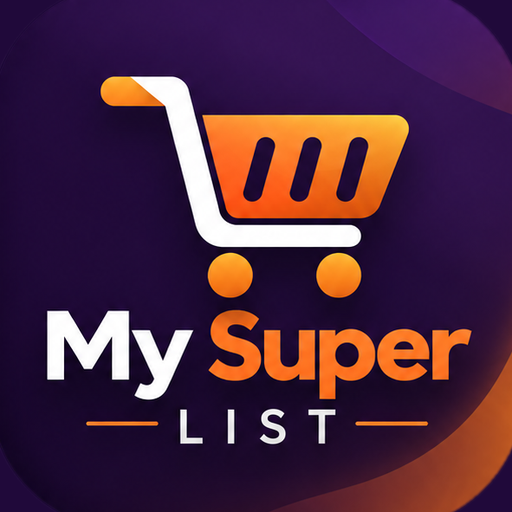
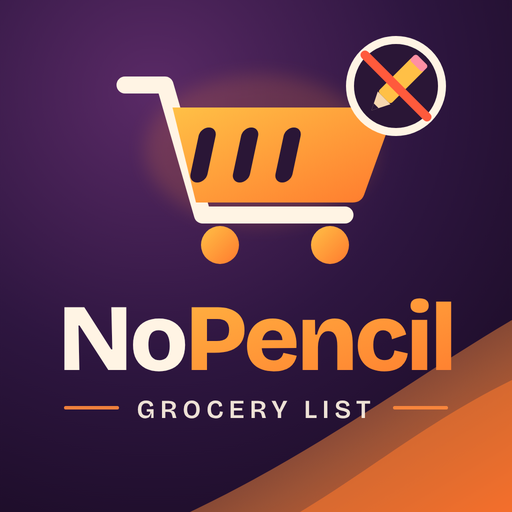
Add files via upload

diff --git a/index.html b/index.html
@@ -8,8 +8,8 @@
 <meta name="apple-mobile-web-app-capable" content="yes">
 <meta name="mobile-web-app-capable" content="yes">
 <meta name="apple-mobile-web-app-status-bar-style" content="black-translucent">
-<meta name="apple-mobile-web-app-title" content="My Super List">
-<title>My Super List</title>
+<meta name="apple-mobile-web-app-title" content="NoPencil">
+<title>NoPencil</title>
 <link rel="manifest" href="manifest.webmanifest">
 <link rel="icon" type="image/png" sizes="32x32" href="icons/favicon-32.png">
 <link rel="icon" type="image/png" sizes="64x64" href="icons/favicon-64.png">
@@ -22,7 +22,7 @@
 <div class="band">
   <div class="band-in">
     <div class="top">
-      <div class="brand"><img class="brand-logo" src="icons/logo-mark.png" alt="My Super List" width="44" height="44"><div class="brand-txt"><small id="greet">Hola</small><b>Tu súper de hoy</b></div></div>
+      <div class="brand"><img class="brand-logo" src="icons/logo-mark.png" alt="NoPencil" width="44" height="44"><div class="brand-txt"><small id="greet">Hola</small><b>Tu súper de hoy</b></div></div>
       <div class="top-right">
         <button id="freezerBtn" class="fz-pill" type="button" aria-label="Abrir Freezer Scan">❄ Freezer<span id="fzBadge" class="fz-badge hidden"></span></button>
         <button id="installBtn" class="install hidden" type="button">Instalar</button>
@@ -82,7 +82,7 @@
 
   <button class="pc-link plus-card hidden" id="plusCard" type="button">
     <span class="pc-link-ico" id="plusCardIco" aria-hidden="true">⭐</span>
-    <span class="pc-link-txt"><b id="plusCardTitle">Mi Lista Plus</b><small id="plusSub"></small></span>
+    <span class="pc-link-txt"><b id="plusCardTitle">NoPencil Plus</b><small id="plusSub"></small></span>
     <svg width="18" height="18" viewBox="0 0 24 24" fill="none" stroke="currentColor" stroke-width="2.4" stroke-linecap="round" stroke-linejoin="round" aria-hidden="true"><path d="M9 6l6 6-6 6"/></svg>
   </button>
 
@@ -210,7 +210,7 @@
 <!-- Mi Lista Plus -->
 <div id="plusSheet" class="sheet-wrap hidden" role="dialog" aria-modal="true" aria-labelledby="plusTitle">
   <div class="sheet plus-sheet">
-    <h2 id="plusTitle">Mi Lista Plus</h2>
+    <h2 id="plusTitle">NoPencil Plus</h2>
     <div id="plusBody"></div>
   </div>
 </div>
@@ -219,8 +219,8 @@
 <!-- Registro / inicio de sesión -->
 <section id="authScreen" class="auth hidden" role="dialog" aria-modal="true" aria-labelledby="authTitle">
   <div class="auth-band">
-    <img class="auth-logo-img" src="icons/logo.png" alt="My Super List" width="132" height="132">
-    <small>Mi lista del súper</small>
+    <img class="auth-logo-img" src="icons/logo.png" alt="NoPencil" width="132" height="132">
+    <small>Tu lista del súper, sin papel</small>
   </div>
   <div class="promo hidden" id="authPromo" aria-live="polite">
     <div class="promo-top"><span class="promo-tag">🎉 Promoción de lanzamiento</span></div>
@@ -448,7 +448,7 @@
     <div class="pc-head"><h2>Compras del mes</h2><span id="pcCount" class="fz-count"></span></div>
     <p class="pc-day-empty pc-month-empty" id="pcMonthEmpty">Toca un día del calendario para registrar tu primera compra.</p>
     <ul class="pc-records pc-month-list" id="pcMonthList"></ul>
-    <p class="pc-version">Versión 2.1.1</p>
+    <p class="pc-version">Versión 2.2.0</p>
   </div>
 </section>
 

diff --git a/js/i18n.js b/js/i18n.js
@@ -13,7 +13,7 @@
 
   const D = {
     // ----- Encabezado y Mi lista -----
-    "Mi lista del súper": "My grocery list", "Tu súper de hoy": "Today's list", "Hola": "Hi",
+    "Mi lista del súper": "My grocery list", "Tu lista del súper, sin papel": "Your grocery list, no paper", "Tu súper de hoy": "Today's list", "Hola": "Hi",
     "Buenos días": "Good morning", "Buenas tardes": "Good afternoon", "Buenas noches": "Good evening",
     "❄ Freezer": "❄ Freezer", "Abrir Freezer Scan": "Open Freezer Scan", "Instalar": "Install",
     "Escanear producto": "Scan product", "Escanear producto con la cámara": "Scan a product with the camera",
@@ -169,11 +169,11 @@
     "Para agregar a alguien más, compártele tu lista. Al unirse, entra gratis.": "To add someone else, share your list with them. When they join, they get in free.",
     "Salir de la familia": "Leave the family", "Ese código no es de un plan familiar.": "That code isn't from a family plan.", "Agregar foto": "Add photo", "Guardando foto…": "Saving photo…", "Quitando foto…": "Removing photo…",
     "Foto guardada": "Photo saved", "Foto quitada": "Photo removed", "Necesitas internet para guardar la foto.": "You need internet to save the photo.",
-    "No se pudo guardar la foto. Revisa tu conexión.": "Couldn't save the photo. Check your connection.", "La foto es demasiado grande": "The photo is too large", "Foto inválida": "Invalid photo", "Mi Lista Plus": "My List Plus", "Mi Lista Plus ⭐": "My List Plus ⭐", "Cerrar sesión": "Log out",
+    "No se pudo guardar la foto. Revisa tu conexión.": "Couldn't save the photo. Check your connection.", "La foto es demasiado grande": "The photo is too large", "Foto inválida": "Invalid photo", "NoPencil Plus": "NoPencil Plus", "NoPencil Plus ⭐": "NoPencil Plus ⭐", "Cerrar sesión": "Log out",
     "Plus gratis (de las primeras)": "Free Plus (early member)", "Prueba gratis activa": "Free trial active", "Plus activo": "Plus active", "Sin suscripción": "No subscription",
     "Desbloquea Plus": "Unlock Plus", "Un momento…": "One moment…", "¡Ya tienes Plus! ⭐": "You've got Plus! ⭐",
     "Gracias por tu suscripción. Ya puedes usar todas las funciones.": "Thanks for subscribing. You can now use every feature.",
-    "Guarda este código. Si tienes la app instalada o cambias de teléfono, toca Mi Lista Plus → escribe tu código.": "Save this code. If you have the app installed or change phones, tap My List Plus → type your code.",
+    "Guarda este código. Si tienes la app instalada o cambias de teléfono, toca NoPencil Plus → escribe tu código.": "Save this code. If you have the app installed or change phones, tap NoPencil Plus → type your code.",
     "Administrar suscripción": "Manage subscription", "Ver planes de Plus": "See Plus plans", "Para seguir usando la app, suscríbete a Plus.": "To keep using the app, subscribe to Plus.",
     "Desbloquea todo lo que hace más fácil tu súper.": "Unlock everything that makes grocery shopping easier.", "Plan anual": "Yearly plan", "Plan mensual": "Monthly plan",
     "Los planes todavía no están disponibles.": "Plans aren't available yet.", "Se renueva automáticamente y puedes cancelar cuando quieras.": "Renews automatically and you can cancel anytime.",

diff --git a/js/plus.js b/js/plus.js
@@ -182,7 +182,7 @@
     }
     if (!enabled()) { card.classList.add("hidden"); return; }
     card.classList.remove("hidden");
-    $("plusCardTitle").textContent = "Mi Lista Plus"; $("plusCardIco").classList.remove("has-photo"); $("plusCardIco").textContent = "⭐";
+    $("plusCardTitle").textContent = "NoPencil Plus"; $("plusCardIco").classList.remove("has-photo"); $("plusCardIco").textContent = "⭐";
     $("plusSub").textContent = isPlus() ? planText() : "Desbloquea " + feats.map(f => FEATURES[f].name).join(", ").replace(/, ([^,]*)$/, " y $1");
     card.classList.toggle("on", isPlus());
   }
@@ -194,13 +194,13 @@
     sheet.dataset.blocking = blocking ? "1" : "";
     const A = ACC(), u = A && A.user();
     if (mode === "working") {
-      title.textContent = ACC() ? "Mi cuenta" : "Mi Lista Plus";
+      title.textContent = ACC() ? "Mi cuenta" : "NoPencil Plus";
       box.append(el("p", "plus-working", workingText || "Un momento…"));
     } else if (mode === "welcome") {
       title.textContent = "¡Ya tienes Plus! ⭐";
       box.append(el("p", "plus-lead", "Gracias por tu suscripción. Ya puedes usar todas las funciones."));
       if (A) box.append(el("p", "plus-note", "Tu suscripción quedó unida a tu cuenta (" + (u ? u.email : "") + "). Entra con tu correo en cualquier teléfono y la tendrás activa."));
-      else { box.append(codeBox()); box.append(el("p", "plus-note", "Guarda este código. Si tienes la app instalada o cambias de teléfono, toca Mi Lista Plus → escribe tu código.")); }
+      else { box.append(codeBox()); box.append(el("p", "plus-note", "Guarda este código. Si tienes la app instalada o cambias de teléfono, toca NoPencil Plus → escribe tu código.")); }
       box.append(btn("Empezar", "sh-primary", () => closeSheet(true)));
     } else if (mode === "account") {
       title.textContent = "Mi cuenta";
@@ -243,7 +243,7 @@
       if (A) box.append(btn("Cerrar sesión", "sh-danger", () => { closeSheet(true); A.logout(); }));
       box.append(btn("Cerrar", "sh-ghost", () => closeSheet()));
     } else { // paywall
-      title.textContent = "Mi Lista Plus ⭐";
+      title.textContent = "NoPencil Plus ⭐";
       box.append(el("p", "plus-lead", whole
         ? "Para seguir usando la app, suscríbete a Plus."
         : feature ? FEATURES[feature].name + " es parte de Plus." : "Desbloquea todo lo que hace más fácil tu súper."));

diff --git a/admin.html b/admin.html
@@ -4,12 +4,12 @@
 <meta charset="utf-8">
 <meta name="viewport" content="width=device-width, initial-scale=1, viewport-fit=cover">
 <meta name="robots" content="noindex, nofollow">
-<title>Panel · My Super List</title>
+<title>Panel · NoPencil</title>
 <link rel="icon" type="image/png" href="icons/favicon-32.png">
 <link rel="manifest" href="admin.webmanifest">
 <link rel="apple-touch-icon" href="icons/apple-touch-icon.png">
 <meta name="apple-mobile-web-app-capable" content="yes">
-<meta name="apple-mobile-web-app-title" content="Super List Panel">
+<meta name="apple-mobile-web-app-title" content="NoPencil Panel">
 <meta name="theme-color" content="#2A1636">
 <link rel="stylesheet" href="css/styles.css">
 <style>
@@ -50,7 +50,7 @@
 </style>
 </head>
 <body>
-<header class="ad-band"><img src="icons/logo-mark.png" alt="" width="44" height="44" style="float:right;border-radius:13px"><small>My Super List</small><h1>Panel de cuentas</h1></header>
+<header class="ad-band"><img src="icons/logo-mark.png" alt="" width="44" height="44" style="float:right;border-radius:13px"><small>NoPencil</small><h1>Panel de cuentas</h1></header>
 <main class="ad-main">
   <form class="ad-card" id="login">
     <p style="margin:0 0 10px;color:var(--muted)">Escribe la contraseña de administración (la variable <b>ADMIN_PASSWORD</b> que pusiste en Netlify).</p>
@@ -129,7 +129,7 @@
     help("");
     if (!("serviceWorker" in navigator) || !("PushManager" in window) || !("Notification" in window)) {
       help(isIOS && !standalone
-        ? "En iPhone primero agrega este panel a tu pantalla de inicio: toca Compartir → Agregar a inicio. Ábrelo desde ese ícono nuevo (Mi Lista Panel), entra con tu contraseña y toca Activar."
+        ? "En iPhone primero agrega este panel a tu pantalla de inicio: toca Compartir → Agregar a inicio. Ábrelo desde ese ícono nuevo (NoPencil Panel), entra con tu contraseña y toca Activar."
         : "Este navegador no permite avisos. Prueba con Chrome o Safari actualizados.");
       return;
     }

diff --git a/js/plus-config.js b/js/plus-config.js
@@ -9,14 +9,14 @@
    La clave secreta de Stripe va SOLO en Netlify (STRIPE_SECRET_KEY). */
 window.PLUS_CONFIG = {
   authRequired: true,
-  enabled: false,
+  enabled: true,
   // Qué se paga: "todo" (toda la app) o funciones sueltas: "freezer", "compras", "compartida"
   features: ["todo"],
-  monthly: { link: "", price: "$5.99 al mes", label: "Plan individual" },
+  monthly: { link: "https://buy.stripe.com/28EfZjboH9J30e5eFv4wM02", price: "$5.99 al mes", label: "Plan individual" },
   // Plan familiar: quien lo paga comparte su lista y cada persona que se une entra gratis
   // (hasta 5 personas más, o lo que pongas en FAMILY_MEMBERS en Netlify).
   // En Stripe, al precio familiar ponle metadata: plan = family.
-  family:  { link: "", price: "", label: "Plan familiar", note: "Para toda la casa" },
+  family:  { link: "https://buy.stripe.com/8x29AVcsL7AV8KB9lb4wM03", price: "$9.99 al mes", label: "Plan familiar", note: "Para toda la casa" },
   yearly:  { link: "", price: "", label: "Plan anual", note: "" },   // déjalo vacío si solo cobras mensual
   trialDays: 0,          // días gratis de prueba (deben coincidir con tu enlace de Stripe)
   foundersLimit: 10,     // solo para mostrar el texto; el número real lo decide el servidor (FOUNDERS_LIMIT)

diff --git a/sw.js b/sw.js
@@ -1,6 +1,6 @@
 /* Service worker: permite abrir la app sin internet.
    Cambia VERSION cada vez que subas cambios para que los teléfonos se actualicen. */
-const VERSION = "v2.1.1";
+const VERSION = "v2.2.0";
 const SHELL = "shell-" + VERSION;
 const IMAGES = "product-images";
 const FILES = [

diff --git a/README.md b/README.md
@@ -1,4 +1,4 @@
-# My Super List (Mi lista del súper)
+# NoPencil (tu lista del súper, sin papel)
 
 Lista de compras para el teléfono: apuntas la cámara al código de barras, la app identifica el producto y lo agrega sola a tu lista. La lista se guarda en el teléfono y la app funciona aunque no tengas señal dentro de la tienda.
 
@@ -10,17 +10,17 @@ La cámara solo funciona en sitios seguros (https), por eso hay que subirla a un
 
 ### Opción rápida: Netlify Drop (sin GitHub)
 
-1. Descomprime el archivo `mi-lista-super.zip` en tu computadora.
+1. Descomprime el archivo `nopencil.zip` en tu computadora.
 2. Entra a https://app.netlify.com/drop e inicia sesión o crea una cuenta.
-3. Arrastra la carpeta `mi-lista-super` completa a la página.
+3. Arrastra la carpeta `nopencil` completa a la página.
 4. En unos segundos te da una dirección como `https://nombre-raro-123.netlify.app`. Esa es tu app.
-5. Opcional: en **Site configuration → Change site name** puedes cambiarla a algo como `mi-lista-super.netlify.app`.
+5. Opcional: en **Site configuration → Change site name** puedes cambiarla a algo como `nopencil.netlify.app`.
 
 Para actualizarla más adelante, en tu sitio de Netlify ve a **Deploys** y arrastra la carpeta nueva.
 
 ### Opción con GitHub (se actualiza sola)
 
-1. Crea una cuenta en https://github.com y un repositorio nuevo, por ejemplo `mi-lista-super`.
+1. Crea una cuenta en https://github.com y un repositorio nuevo, por ejemplo `nopencil`.
 2. En el repositorio toca **Add file → Upload files** y arrastra *el contenido* de la carpeta (index.html, sw.js, las carpetas css, js, icons, etc.), no la carpeta de afuera. Toca **Commit changes**.
 3. Entra a https://app.netlify.com, toca **Add new site → Import an existing project → GitHub** y elige el repositorio.
 4. No cambies nada en la configuración (el archivo `netlify.toml` ya lo dice todo) y toca **Deploy**.
@@ -127,7 +127,7 @@ Después de agregarlas: **Deploys → Trigger deploy**.
 **Foto de perfil.** En *Mi cuenta* cada persona toca su foto (o *Agregar foto*) para elegir una de la galería o tomarla. Se guarda en su cuenta, así que aparece en cualquier teléfono donde entre, y tú también la ves en tu panel.
 
 **Avisos para ti.** En el panel toca **🔔 Activar** y te llegará una notificación al teléfono cada vez que alguien se registre (con su nombre, correo y número) y cada vez que alguien pida un código para cambiar su contraseña (con el código incluido, para que se lo des sin abrir el panel). Al tocar el aviso se abre el panel.
-- **iPhone:** primero agrega el panel a tu pantalla de inicio: abre `admin.html` en Safari → **Compartir → Agregar a inicio**. Te queda un ícono llamado *Mi Lista Panel*. Ábrelo desde ese ícono, entra con tu contraseña y toca **Activar**.
+- **iPhone:** primero agrega el panel a tu pantalla de inicio: abre `admin.html` en Safari → **Compartir → Agregar a inicio**. Te queda un ícono llamado *NoPencil Panel*. Ábrelo desde ese ícono, entra con tu contraseña y toca **Activar**.
 - **Android:** ábrelo en Chrome, entra y toca **Activar**.
 
 **Las primeras 5 son gratis.** El servidor cuenta las cuentas en el orden en que se registran; las primeras 5 (o lo que diga `FOUNDERS_LIMIT`) tienen todo gratis para siempre. **Ojo:** tus propias cuentas de prueba también cuentan. Si tú te registras primero, pon `FOUNDERS_LIMIT` en 6 para que queden 5 lugares para tus clientas.
@@ -136,7 +136,7 @@ Después de agregarlas: **Deploys → Trigger deploy**.
 
 **Privacidad:** como ahora guardas nombre y correo de tus usuarias, necesitas una política de privacidad que lo explique.
 
-## Activar Mi Lista Plus (suscripción con Stripe)
+## Activar NoPencil Plus (suscripción con Stripe)
 
 La app ya trae el sistema de suscripción, **apagado**. Mientras esté apagado, todas las personas con cuenta usan la app gratis. Está configurada como pediste: **toda la app** se paga (`features: ["todo"]`) a **$5.99 al mes**, y las primeras 5 cuentas no pagan. Si prefieres cobrar solo algunas funciones, cambia `features` en `js/plus-config.js` (por ejemplo `["freezer", "compras"]`).
 
@@ -144,12 +144,12 @@ Con cuentas, el pago queda **unido a la cuenta** de la clienta: la app manda su 
 
 Hazlo primero en **modo de prueba** de Stripe (Test mode) y, cuando todo funcione, repítelo en modo real.
 
-1. **Producto y precios.** En Stripe → **Product catalog → Add product**: nombre *Mi Lista Plus*. Agrega un precio **recurrente mensual** y otro **recurrente anual** con los montos que decidiste.
+1. **Producto y precios.** En Stripe → **Product catalog → Add product**: nombre *NoPencil Plus*. Agrega un precio **recurrente mensual** y otro **recurrente anual** con los montos que decidiste.
 2. **Enlaces de pago.** **Payment Links → New**, uno por cada precio. Si das prueba gratis, actívala ahí (mismos días para los dos). En **After payment** elige **Don't show confirmation page / redirigir a tu sitio** y pega esta dirección, cambiando el principio por la de tu app:
    `https://TU-APP.netlify.app/?plus_session={CHECKOUT_SESSION_ID}`
    (Escribe `{CHECKOUT_SESSION_ID}` tal cual, con las llaves: Stripe lo cambia solo por el número del pago.)
 3. **Portal de clientes.** **Settings → Billing → Customer portal**: actívalo y permite cancelar la suscripción y cambiar la tarjeta (y cambiar de plan, si quieres).
-4. **Clave restringida.** **Developers → API keys → Create restricted key**. Ponle nombre *Mi Lista Netlify* y da solo estos permisos:
+4. **Clave restringida.** **Developers → API keys → Create restricted key**. Ponle nombre *NoPencil Netlify* y da solo estos permisos:
    - Checkout Sessions: **Read**
    - Subscriptions: **Read**
    - Customers: **Write**
@@ -157,21 +157,21 @@ Hazlo primero en **modo de prueba** de Stripe (Test mode) y, cuando todo funcion
    Todo lo demás en *None*. Copia la clave (empieza con `rk_test_` o `rk_live_`).
 5. **Pégala en Netlify, no en GitHub.** En Netlify → tu sitio → **Site configuration → Environment variables → Add a variable**: nombre `STRIPE_SECRET_KEY`, valor tu clave. Luego **Deploys → Trigger deploy** para que la tome.
 6. **Configura la app.** En `js/plus-config.js` pega tu enlace de pago mensual en `monthly.link` (el anual es opcional; si no lo usas, déjalo vacío), revisa el precio que se muestra (`"$5.99 al mes"`), los días de prueba, tu correo de soporte, y cambia `enabled: false` por `enabled: true`. Sube el cambio a GitHub.
-7. **Prueba.** Abre la app, toca **Mi Lista Plus**, elige un plan y paga con la tarjeta de prueba `4242 4242 4242 4242`, cualquier fecha futura y cualquier CVC. Al terminar, Stripe te regresa a la app con Plus activo y un **código de 12 letras**. Prueba también **Administrar suscripción** y cancelar.
+7. **Prueba.** Abre la app, toca **NoPencil Plus**, elige un plan y paga con la tarjeta de prueba `4242 4242 4242 4242`, cualquier fecha futura y cualquier CVC. Al terminar, Stripe te regresa a la app con Plus activo y un **código de 12 letras**. Prueba también **Administrar suscripción** y cancelar.
 8. **Pasar a cobrar de verdad.** Repite los pasos 1 a 5 en modo real (enlaces y clave `rk_live_`), reemplaza la variable `STRIPE_SECRET_KEY` en Netlify y los enlaces en `js/plus-config.js`.
 
 **Plan familiar.** Hay dos planes: **Individual ($5.99 al mes)** y **Familiar** (el precio lo decides tú). Quien paga el plan familiar comparte su lista (*Lista compartida → Invitar a alguien*) y cada persona que se une crea su cuenta y **entra gratis**, hasta 5 personas más (cámbialo con la variable `FAMILY_MEMBERS` en Netlify). Las fundadoras también tienen el plan familiar gratis. En *Mi cuenta* quien paga ve su familia y puede quitar a alguien; quien es familiar ve "Plan familiar de …" y puede salir. Si se cancela el plan familiar, la familia pierde el acceso al terminar el periodo pagado. Para el plan familiar en Stripe:
-1. En el producto *Mi Lista Plus* (o uno nuevo), agrega un precio mensual con el monto que decidas.
+1. En el producto *NoPencil Plus* (o uno nuevo), agrega un precio mensual con el monto que decidas.
 2. Abre ese precio → **Metadata** → agrega `plan` = `family`. Así la app sabe que es el plan familiar.
 3. Crea su enlace de pago (con la misma dirección de regreso que el individual) y pégalo en `family.link` en `js/plus-config.js`, con su precio en `family.price`.
 
-**El código de Plus** (solo si apagas las cuentas con `authRequired: false`). Cada clienta recibe un código al pagar. Con él desbloquea Plus en la app instalada o en otro teléfono (**Mi Lista Plus → ¿Ya pagaste? Escribe tu código**). Esto es importante en iPhone: el pago se abre en Safari, y la app instalada guarda sus datos aparte, así que ahí se desbloquea con el código. Si alguien lo pierde, lo encuentras en Stripe → **Customers** → la clienta → **Metadata**, como `codigo_mi_lista`.
+**El código de Plus** (solo si apagas las cuentas con `authRequired: false`). Cada clienta recibe un código al pagar. Con él desbloquea Plus en la app instalada o en otro teléfono (**NoPencil Plus → ¿Ya pagaste? Escribe tu código**). Esto es importante en iPhone: el pago se abre en Safari, y la app instalada guarda sus datos aparte, así que ahí se desbloquea con el código. Si alguien lo pierde, lo encuentras en Stripe → **Customers** → la clienta → **Metadata**, como `codigo_mi_lista`.
 
 **Si cancelan:** Plus sigue activo hasta el final del periodo pagado y luego se bloquea. Sus datos no se borran; si vuelve a pagar, recupera todo.
 
 ## ¿Cómo sé que tengo la versión nueva?
 
-Al final de la página *Mis Compras* aparece el número de versión (por ejemplo, *Versión 2.1.1*). Si ves un número anterior o no aparece, cierra la app por completo y ábrela otra vez (dos veces si hace falta).
+Al final de la página *Mis Compras* aparece el número de versión (por ejemplo, *Versión 2.2.0*). Si ves un número anterior o no aparece, cierra la app por completo y ábrela otra vez (dos veces si hace falta).
 
 ## Cambiar algo después
 
@@ -192,7 +192,7 @@ js/i18n.js              Traducciones al inglés y botón de idioma
 js/categorias.js        Categorías automáticas y productos comunes (español e inglés)
 js/compartir.js         Lista compartida en tiempo real
 netlify/functions/list-*  Funciones que guardan la lista compartida
-js/plus.js              Mi Lista Plus: bloqueo de funciones y desbloqueo con Stripe
+js/plus.js              NoPencil Plus: bloqueo de funciones y desbloqueo con Stripe
 js/plus-config.js       Aquí activas el registro y Plus, y pegas tus enlaces de pago y precios
 js/cuenta.js            Registro, inicio de sesión y "olvidé mi contraseña"
 admin.html              Tu panel de cuentas (protegido con ADMIN_PASSWORD), con avisos a tu teléfono
